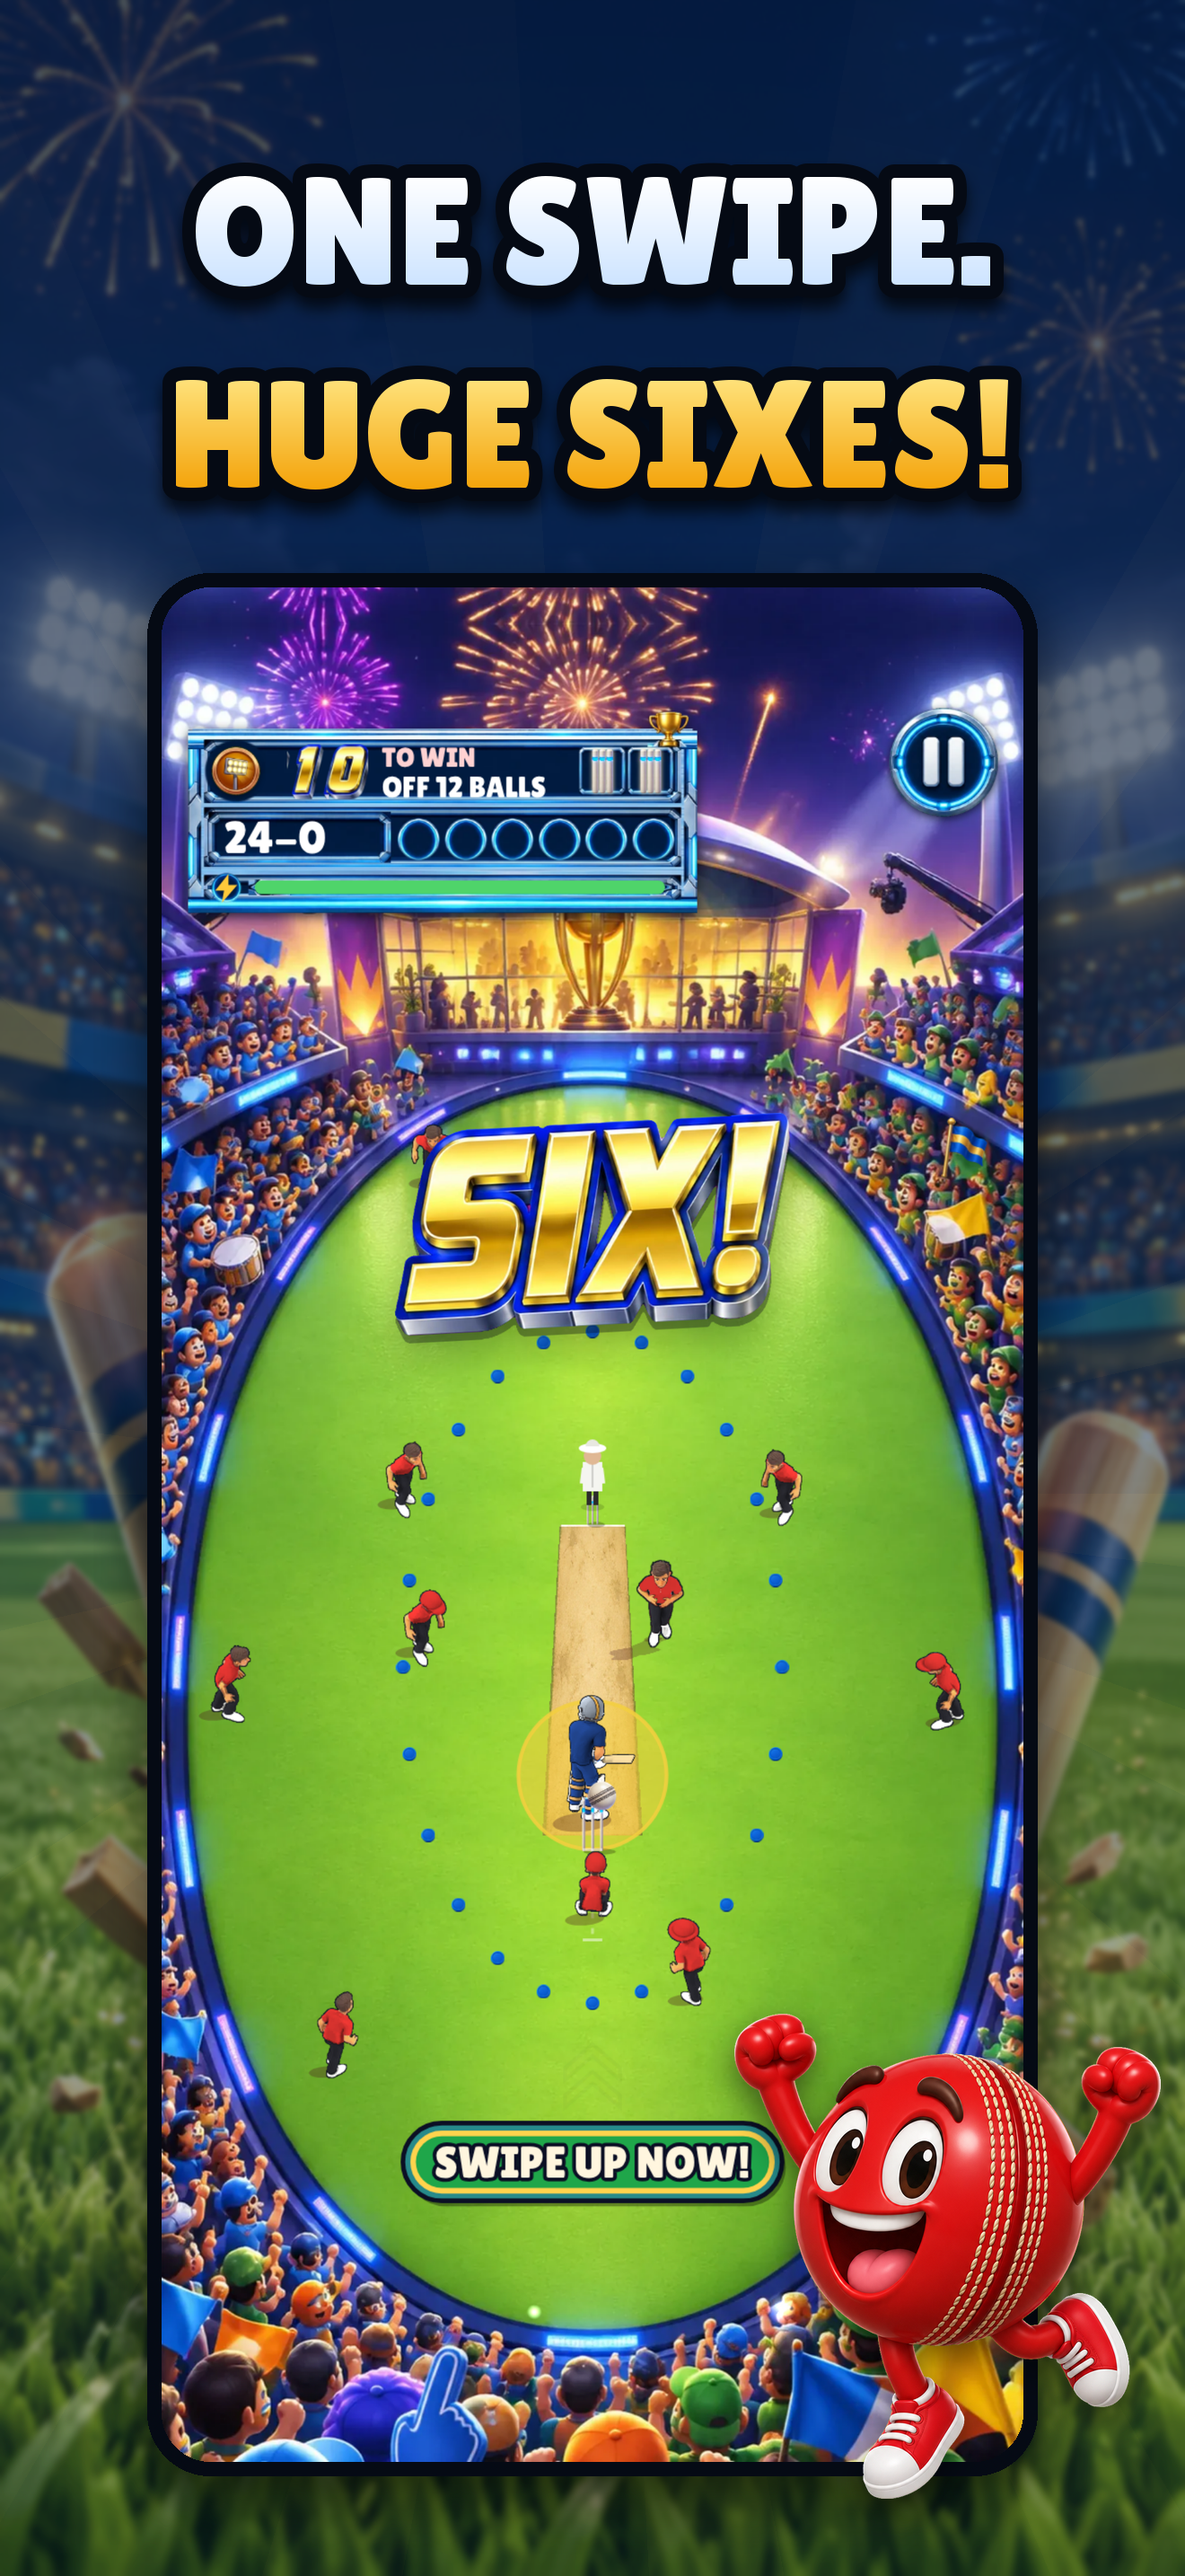
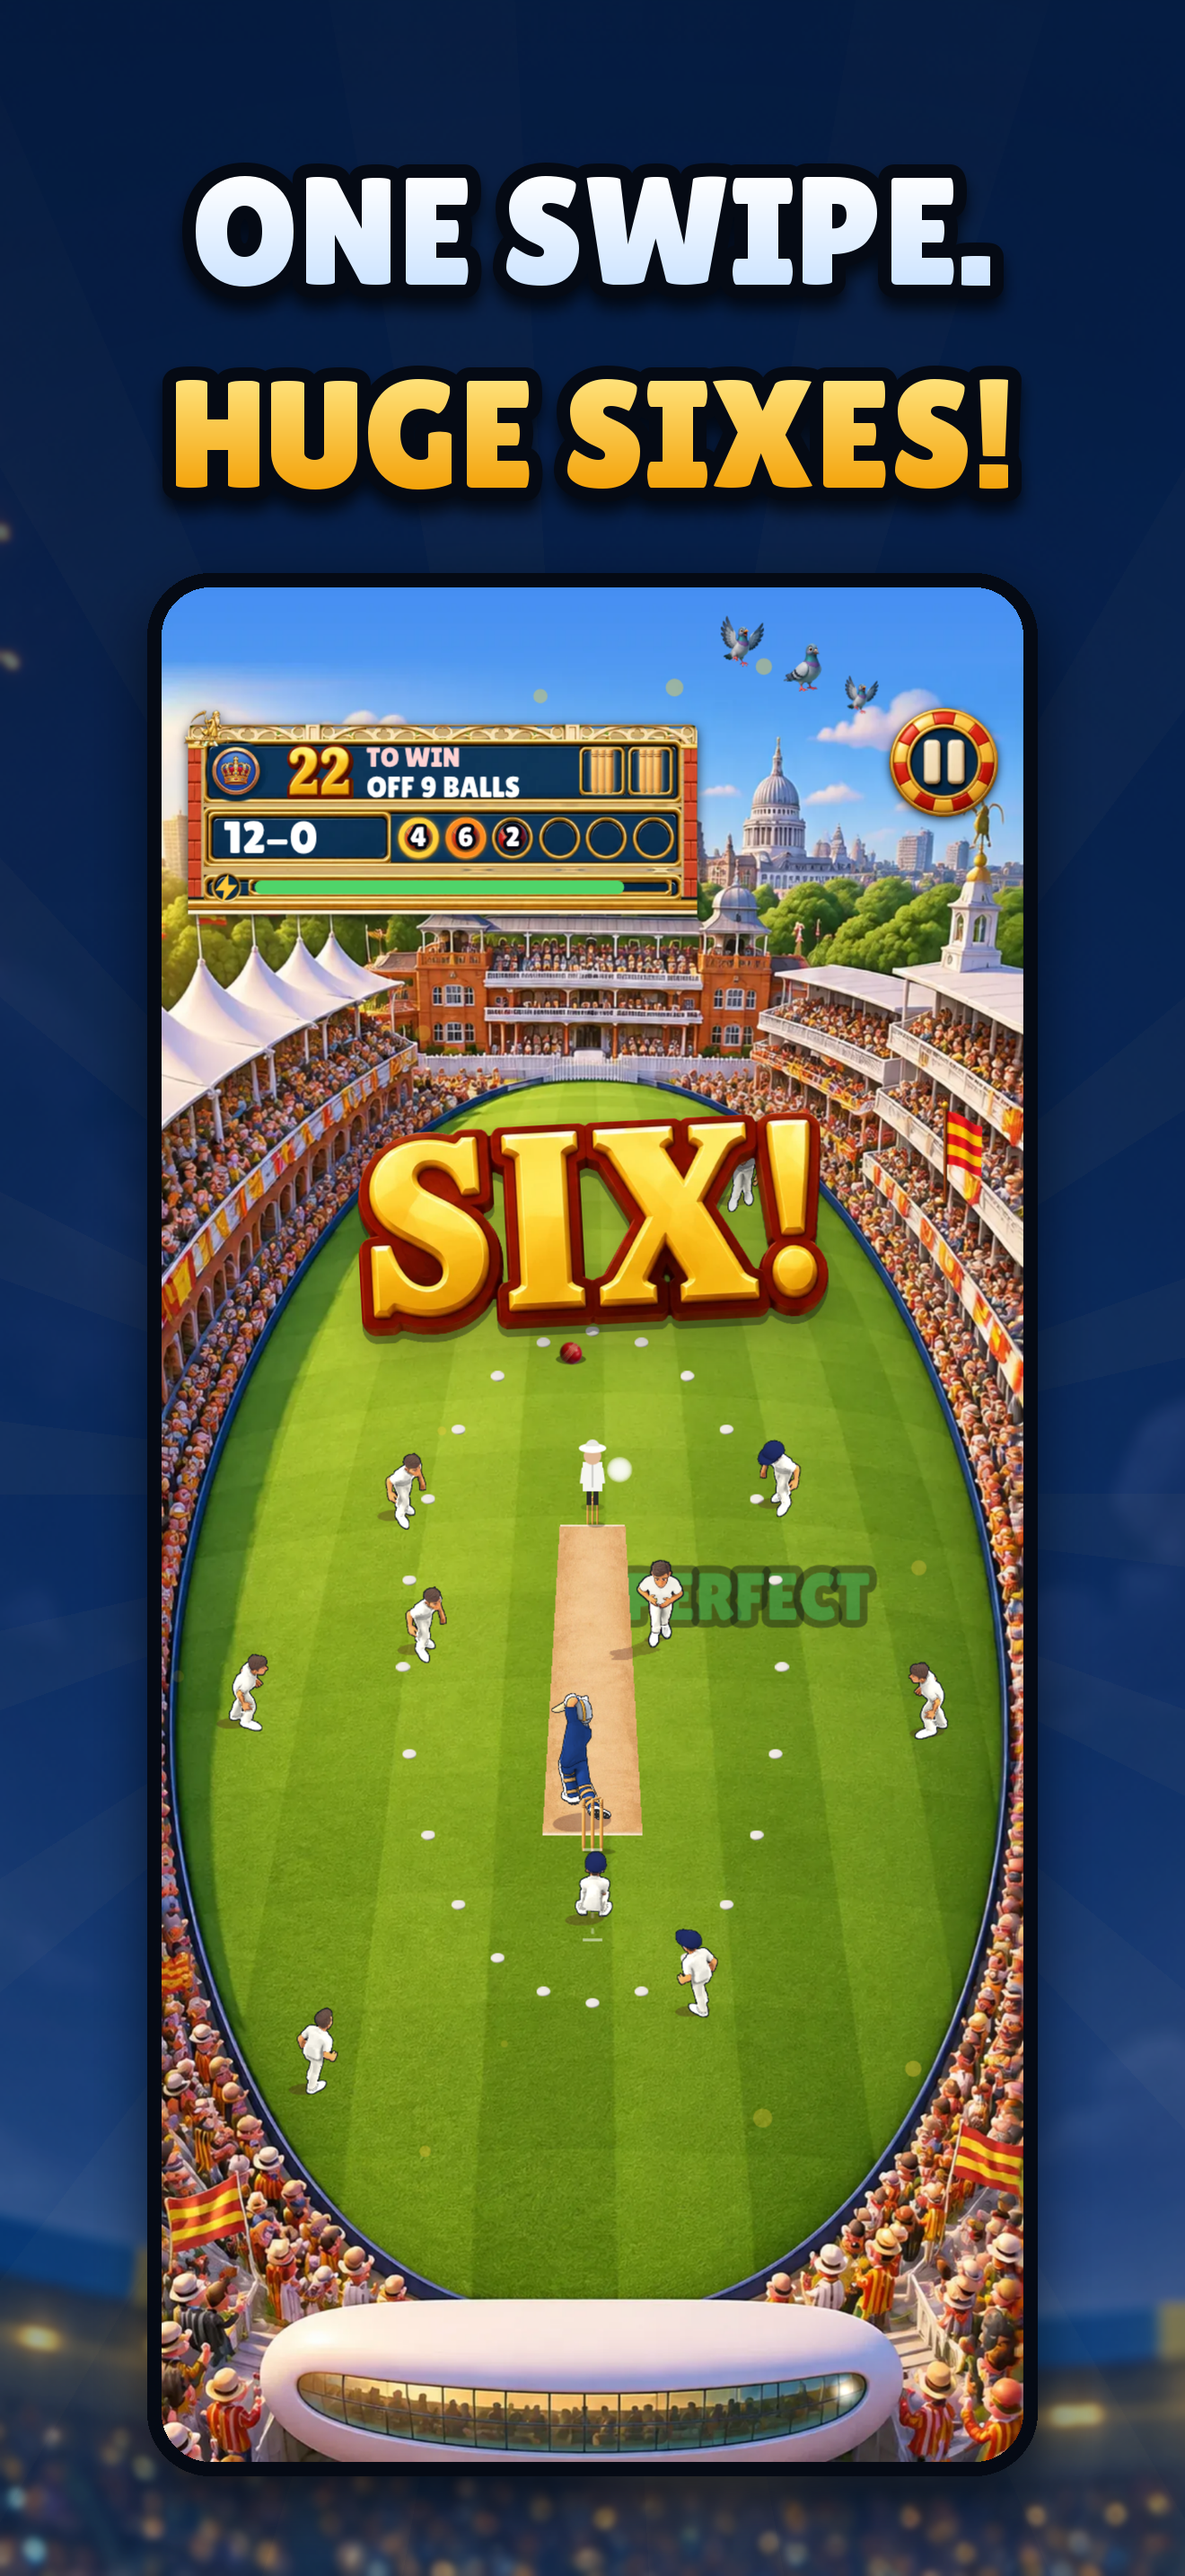
Store slide 1: real six mid-flight at Lord's, calmer stadium background, no Flicky
Claude-Session: https://claude.ai/code/session_01EnXvJ6P6HcGRxjBSnYPdAU

diff --git a/art/store/blend.py b/art/store/blend.py
@@ -63,7 +63,7 @@ def poster(n,l1,l2,bgf,pieces,extra=None,sub=None):
         drop(im,P,int(W*cx-P.width/2),top+int(H*dy),blur=int(28*K),off=(0,int(24*K)),a=0.6)
     im.convert('RGB').save(f'{OUT}/{n}.png')
 A=(0,0,1,1)
-slide('01','ONE SWIPE.','HUGE SIXES!','bg/b1.png',[('r1.png',A)],('m','flicky-celebrate.png',0.80,0.36,False))
+slide('01','ONE SWIPE.','HUGE SIXES!','bg/b1top.png',[('r1_six.png',A)])
 poster('02','1v1 DUELS','WINNER TAKES ALL','bg/b2.webp',[('dw.png',(0,0.20,1,0.64),0.86,-3,0.5,0.0,0.36)],('pair','duel_pair.png',0.5,1.05,False),'Same 12 balls. Most runs wins the pot.')
 slide('03','27 LEAGUES','CLIMB THE ROAD','bg/b3.png',[('r9.png',A)])
 slide('04','120+ GROUNDS','BEACH TO THE MOON','bg/b3.png',[('g1.png',A),('g3.png',A),('g0.png',A)])
